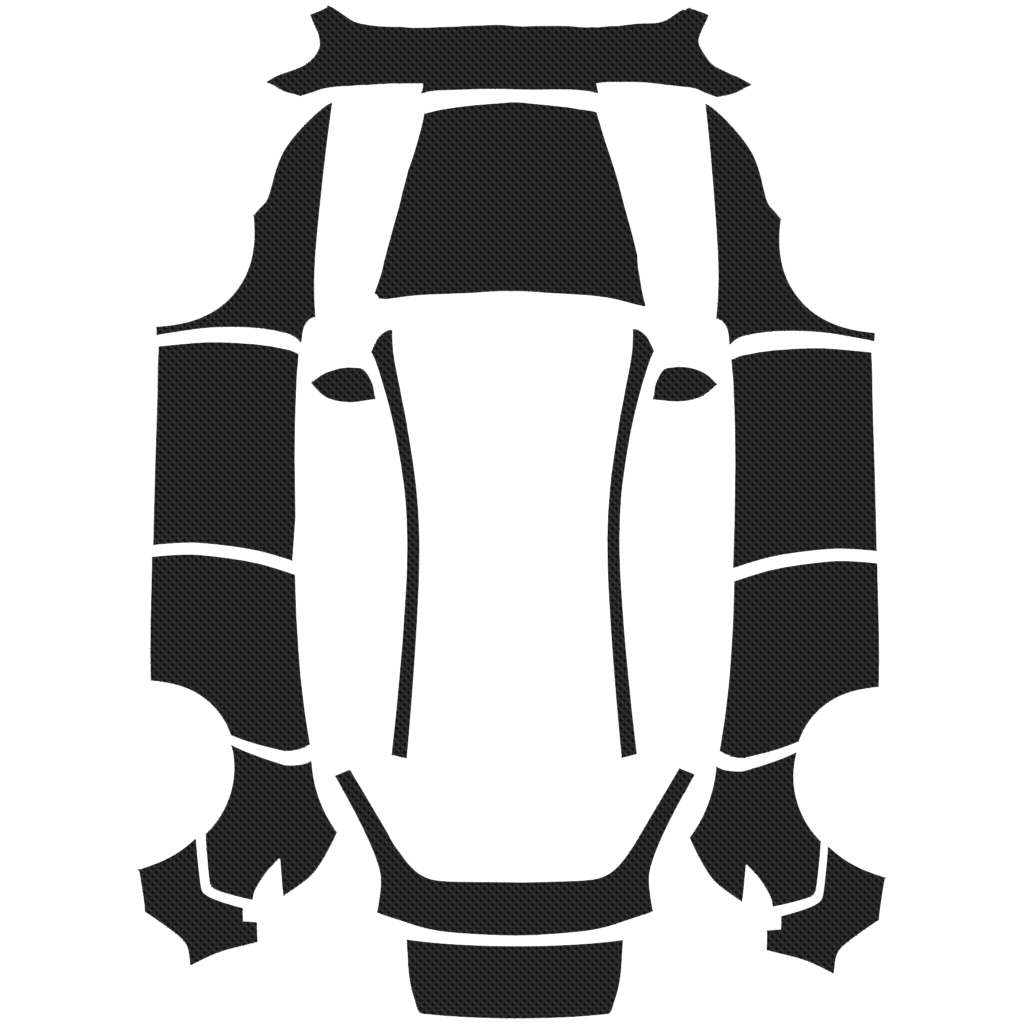
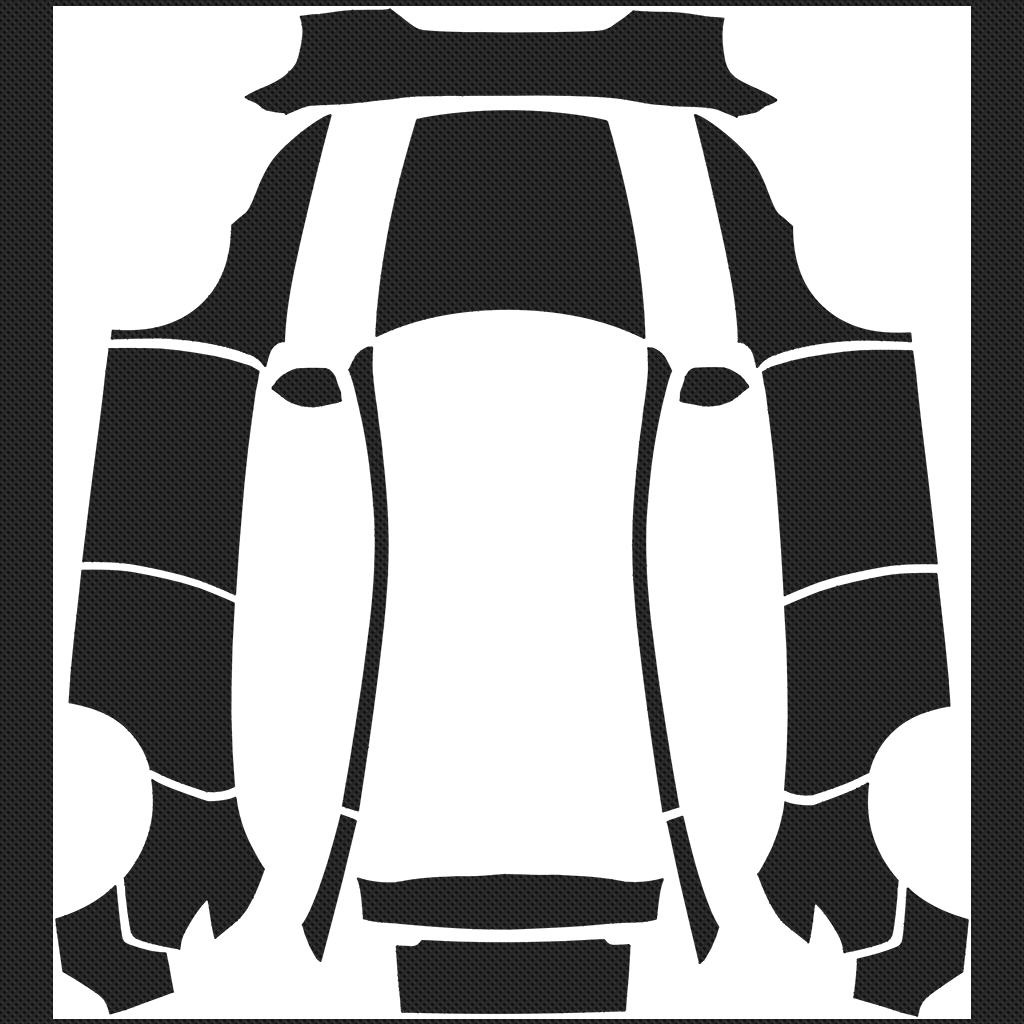
Switch to premium template for Model Y 2026 Juniper

diff --git a/scripts/generate_skin.py b/scripts/generate_skin.py
@@ -11,7 +11,7 @@ import sys
 import math
 import random
 
-TEMPLATE_PATH = os.path.join(os.path.dirname(__file__), '..', 'templates', 'modely-2025-base', 'template.png')
+TEMPLATE_PATH = os.path.join(os.path.dirname(__file__), '..', 'templates', 'modely-2025-premium', 'template.png')
 OUTPUT_DIR = os.path.join(os.path.dirname(__file__), '..', 'skins')
 
 
